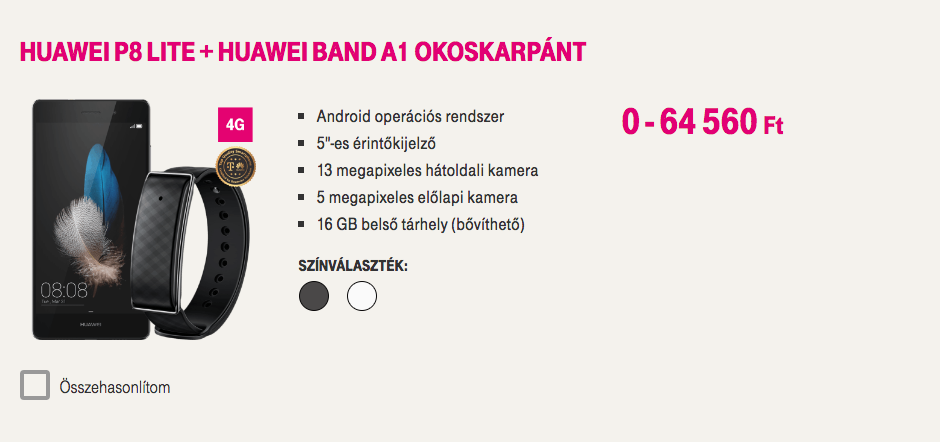
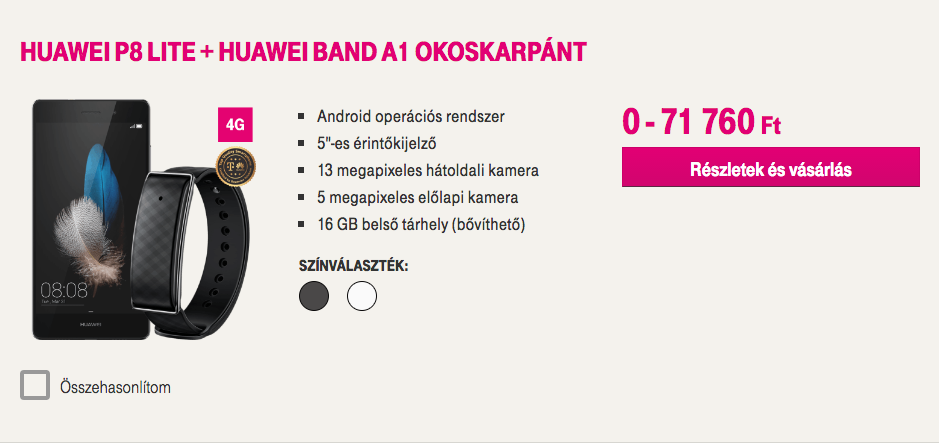
Árak fix

diff --git a/huawei_egyben.html b/huawei_egyben.html
@@ -595,14 +595,14 @@
                                  	 <span class="slider_point slider_point_2" data-id = "2"></span>
                                  	 <span class="slider_point slider_point_3" data-id = "3"></span>
 								 	 <span class="kezdo_ar">0 Ft</span>
-                                 	<span class="vegso_ar">64 560 Ft</span>
+                                 	<span class="vegso_ar">71 760 Ft</span>
 
                                  	 <input id="own_slider" type="range" min="0" max="3" value="3">
                                  	 <div class="own_tooltip ">
                                  	 	<p class="tooltip_top">0 Ft kezdőrészlet</p>
 	                                 	<p class="tooltip_center">+24x<span>1990</span> Ft/hó</p>
 	                                 	<p class="tooltip_bottom">Teljes ár: <span>47 760</span>Ft</p>
-	                                 	<p class="tooltip_egyosszeg"><span>64 560</span> Ft</p>
+	                                 	<p class="tooltip_egyosszeg"><span>71 760</span> Ft</p>
 	                                 	<div class="tooltip_arrow tooltip-arrow"></div>
                                  	 </div>
                                   </div>

diff --git a/huawei_reszlet.html b/huawei_reszlet.html
@@ -573,7 +573,7 @@
                                  	 <span class="slider_point slider_point_1" data-id = "1"></span>
                                  	 <span class="slider_point slider_point_2" data-id = "2"></span>
 								 	 <span class="kezdo_ar">11 760 Ft</span>
-                                 	<span class="vegso_ar">64 560 Ft</span>
+                                 	<span class="vegso_ar">71 760 Ft</span>
 
                                  	 <input id="own_slider" type="range" min="0" max="2" value="0">
                                  	 <div class="own_tooltip ">
